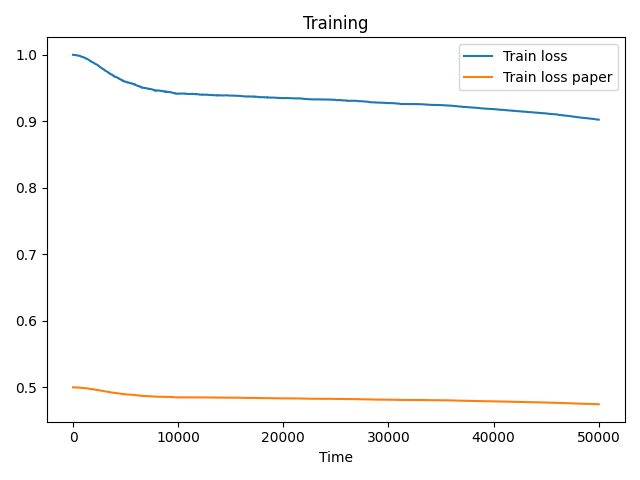
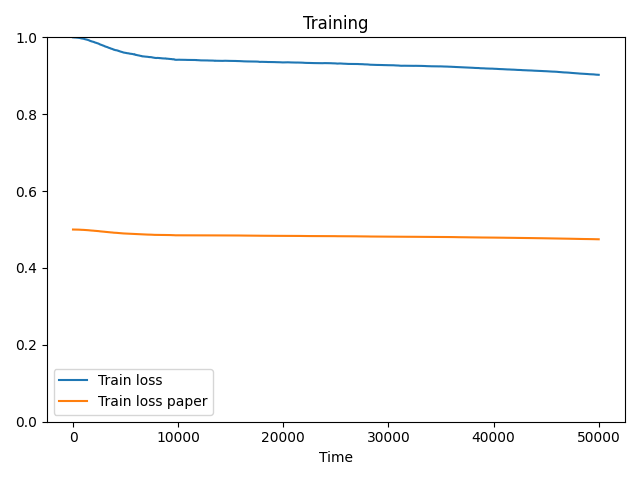
Fix plots

diff --git a/binary_pattern_experiment_config_evaluation.py b/binary_pattern_experiment_config_evaluation.py
@@ -240,6 +240,7 @@ plt.xlabel('Time')
 plt.ylabel('Loss')
 plt.ylim([0, 1])
 plt.tight_layout()
+plt.legend()
 plt.savefig(f'./results/{experiment_name}_{seed}_train_loss.png')
 plt.show()
 
@@ -250,5 +251,6 @@ plt.xlabel('Time')
 plt.ylabel('Paper Loss')
 plt.ylim([0, 1])
 plt.tight_layout()
+plt.legend()
 plt.savefig(f'./results/{experiment_name}_{seed}_train_loss_paper.png')
 plt.show()
